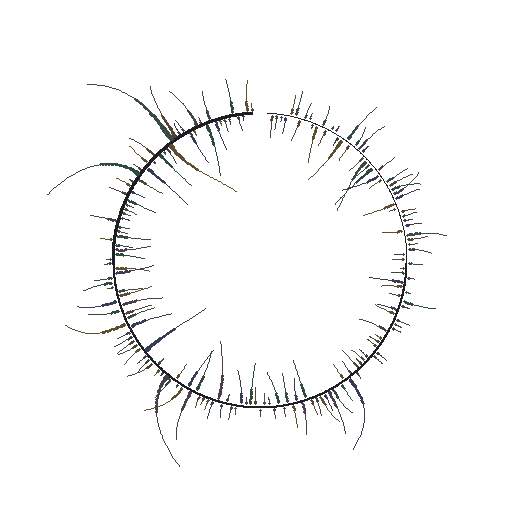
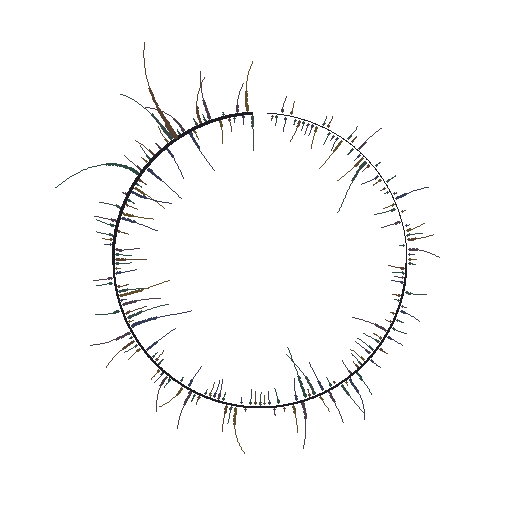
Gallery: replace muted sentence with 'Daria brings warmth...'; re-render g4 to encode it
Claude-Session: https://claude.ai/code/session_019SA9tTx9JUW8atx3a4hjPQ

diff --git a/index.html b/index.html
@@ -226,7 +226,7 @@
         <div class="card"><div class="glow"><img src="assets/g1.png" alt="signed glyph"></div><div class="lab">Signed · Word</div><div class="txt">&ldquo;love&rdquo;</div></div>
         <div class="card"><div class="glow"><img src="assets/g2.png" alt="magnitude glyph"></div><div class="lab">Magnitude · Sentence</div><div class="txt">&ldquo;The best thing to hold onto in life is each other.&rdquo;</div></div>
         <div class="card"><div class="glow"><img src="assets/g3.png" alt="semantic glyph"></div><div class="lab">Semantic · Word</div><div class="txt">&ldquo;gravity&rdquo;</div></div>
-        <div class="card"><div class="glow"><img src="assets/g4.png" alt="muted glyph"></div><div class="lab">Muted · Sentence</div><div class="txt">&ldquo;She plays the violin every morning.&rdquo;</div></div>
+        <div class="card"><div class="glow"><img src="assets/g4.png" alt="muted glyph"></div><div class="lab">Muted · Sentence</div><div class="txt">&ldquo;Daria brings warmth to every room she walks into.&rdquo;</div></div>
         <div class="card"><div class="glow"><img src="assets/g5.png" alt="signed glyph of a paragraph"></div><div class="lab">Signed · Paragraph</div><div class="txt">&ldquo;Quantum entanglement is a physical phenomenon where the state of each particle cannot be described independently of the others, even across a vast distance.&rdquo;</div></div>
         <div class="card"><div class="glow"><img src="assets/g6.png" alt="semantic glyph of a phrase"></div><div class="lab">Semantic · Phrase</div><div class="txt">&ldquo;Creativity is contagious, pass it on.&rdquo;</div></div>
       </div>
